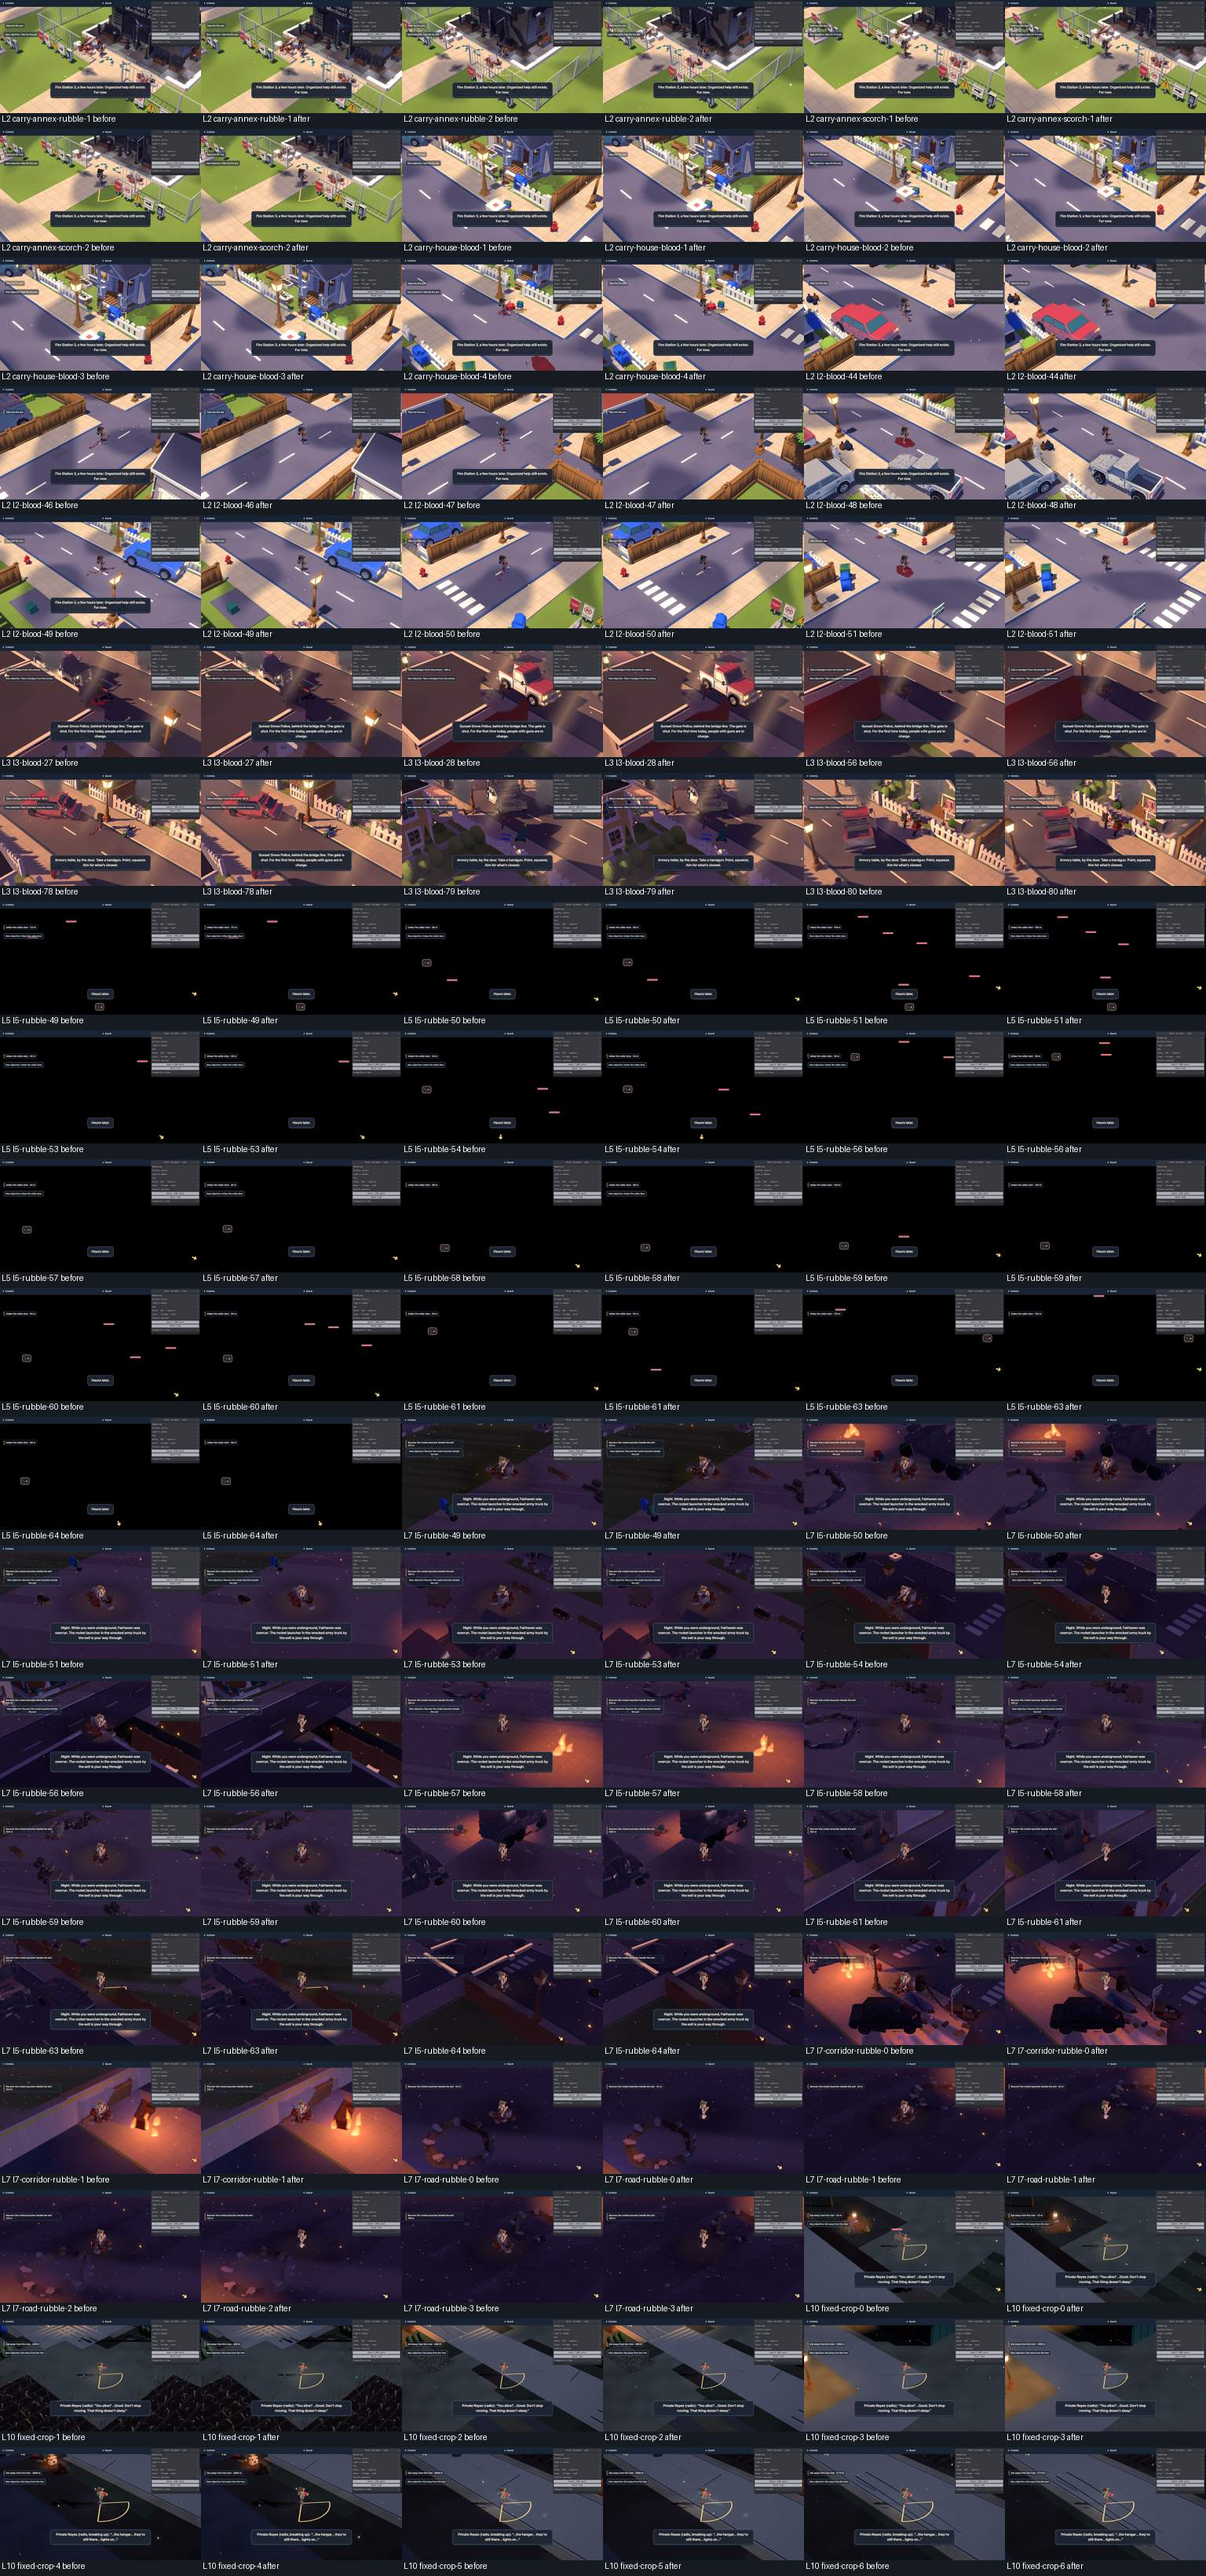
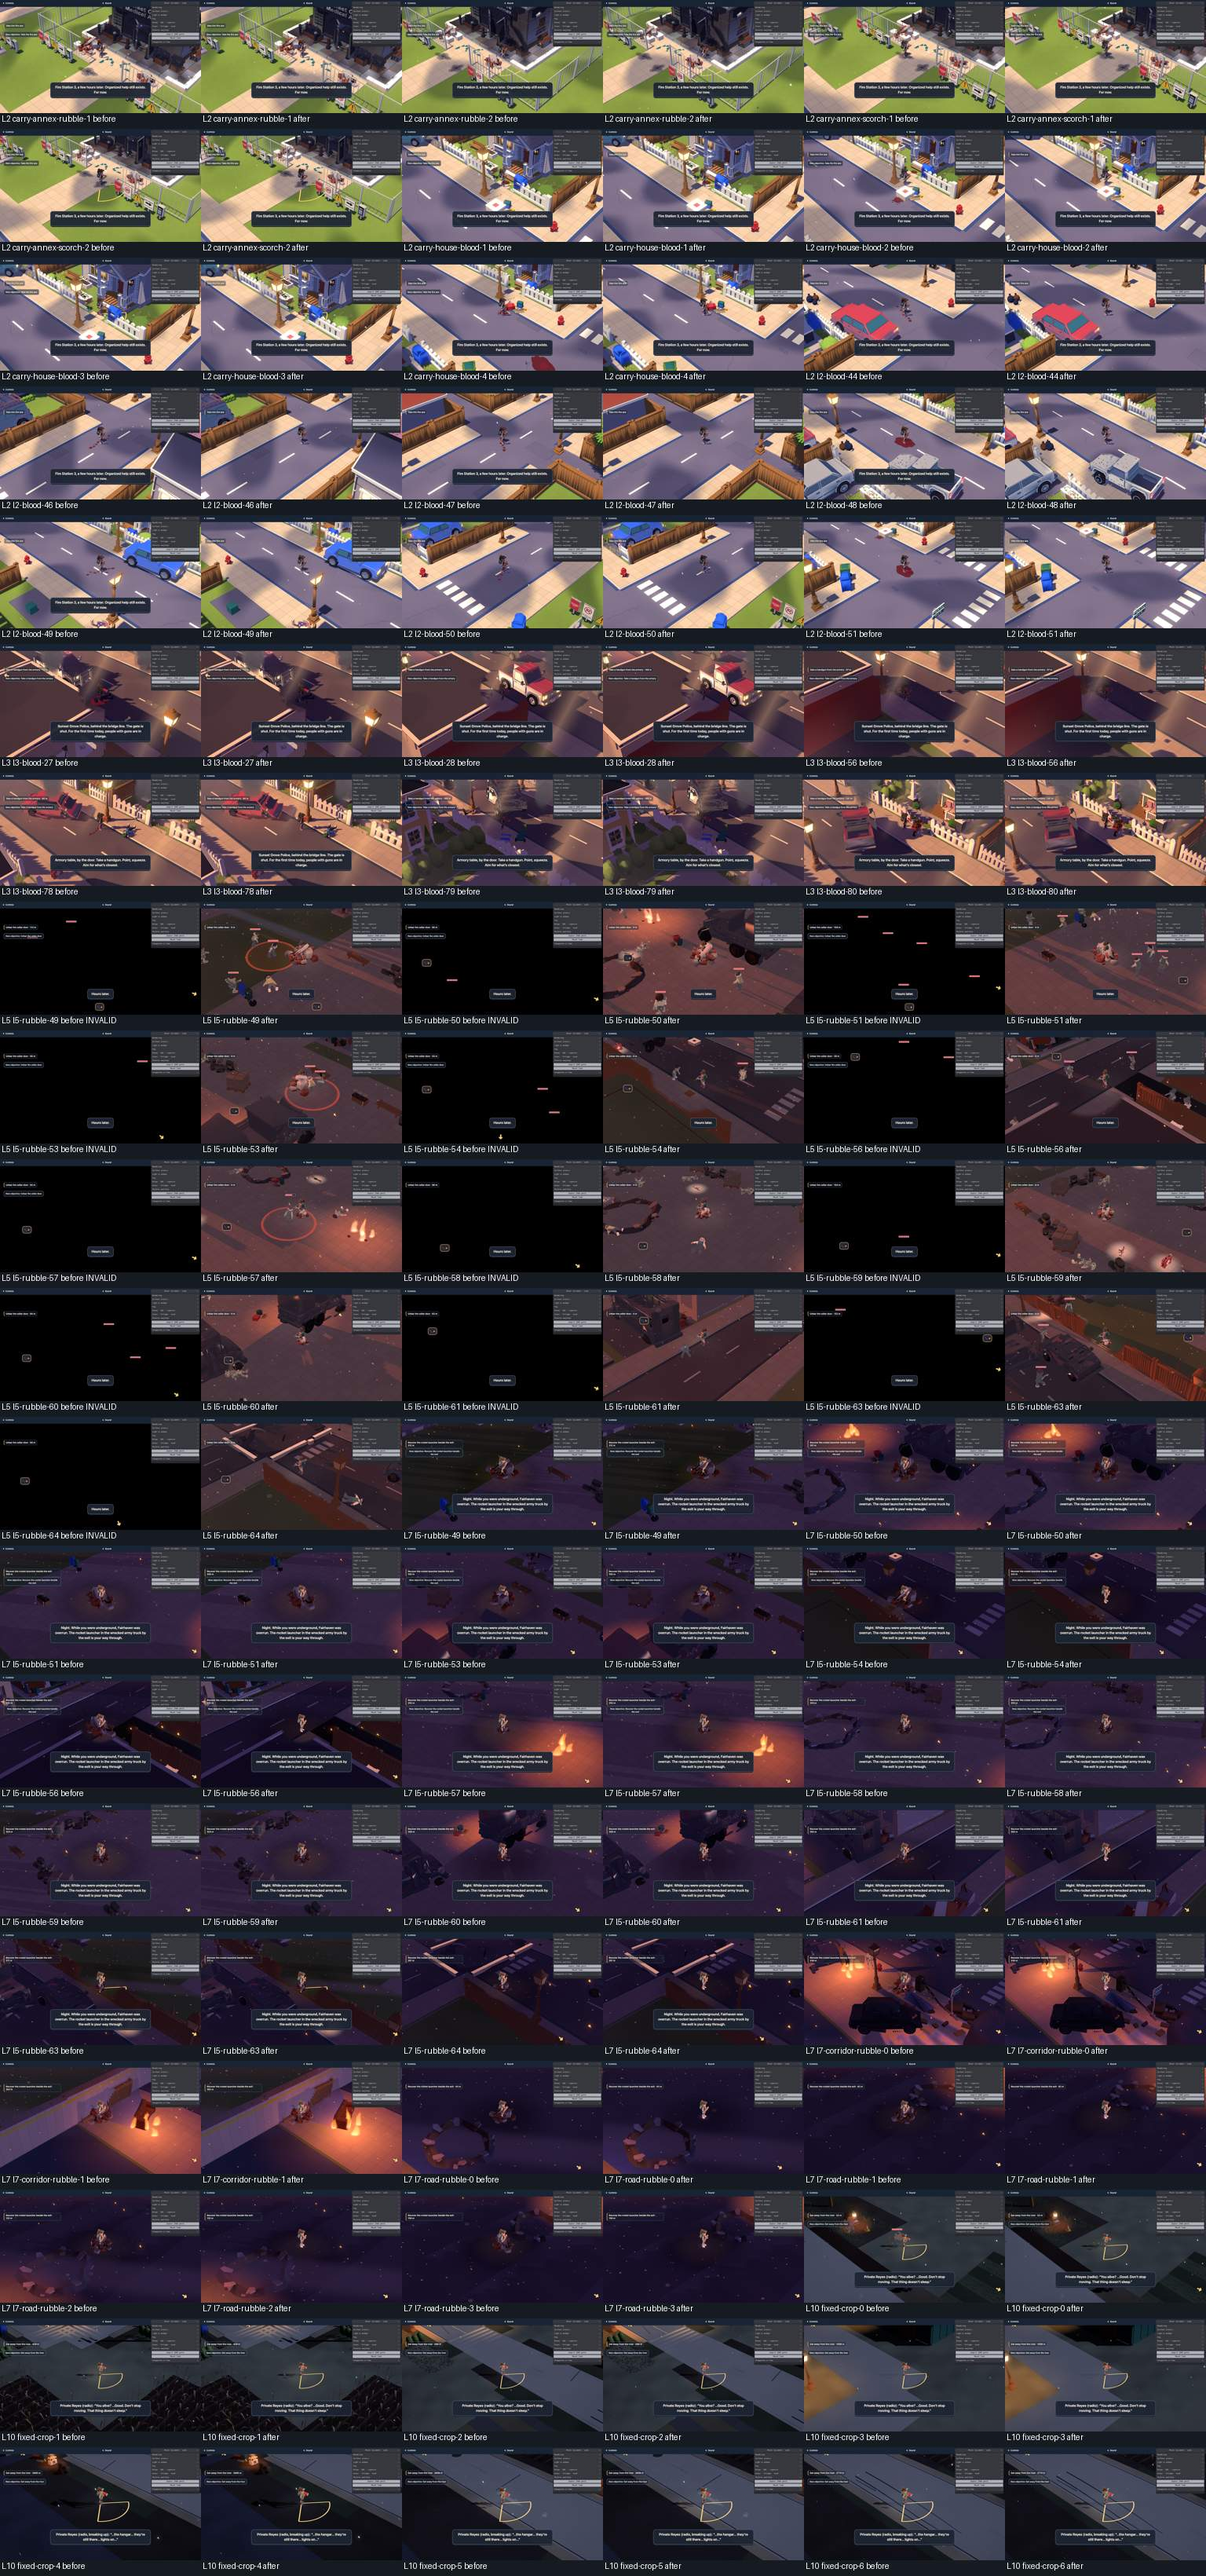
qa: exit L5 cellar mask before street surface captures

Changed region(s): [[0.1562, 0.3421, 0.3438, 0.5909], [0.8125, 0.3421, 1.0, 0.5598], [0.5, 0.3421, 0.6875, 0.5598]]

diff --git a/tools/qa/s87-captures.ts b/tools/qa/s87-captures.ts
@@ -13,8 +13,14 @@ const session = new SceneSession({ tier: 'high', backend: 'webgl2' });
 const receipts: unknown[] = [];
 try {
   await session.open(); let level = '';
-  for (const row of rows) {
-    if (row.level !== level) { await session.inspectLevel(row.level); level = row.level; }
+  for (const row of rows.filter(r => !process.env.S87_CAPTURE_LEVEL || r.level === process.env.S87_CAPTURE_LEVEL)) {
+    if (row.level !== level) {
+      await session.inspectLevel(row.level); level = row.level;
+      if (level === 'L5') await session.page.evaluate(async () => {
+        const a = window.__SS__!; a.missions.completeObjective('emerge'); a.resume();
+        await new Promise(r => setTimeout(r, 2500)); a.pause(); await a.screenshotReady();
+      });
+    }
     const state = await session.page.evaluate(async ({x,z}) => {
       const a = window.__SS__!;
       a.inspect.enable(false); a.teleport('player', {x,z}); a.camera.follow(); a.camera.zoom(1);

diff --git a/docs/reports/s87-surfaceqa/README.md b/docs/reports/s87-surfaceqa/README.md
@@ -39,3 +39,7 @@ The gate now samples all six L10 region handoffs at 0.05, 0.5 and 1 m on each si
 The opened contact sheet now pairs the previous HIGH zoom-1 captures with a fresh 60-image run after runtime road exclusion. Visible road blood patches in L2/L3 and road rubble in L7 disappear while surrounding structures remain. The L5 black-geometry captures remain unqualified. The sheet labels “before” and “after” refer to this runtime filter; both runs already include the earlier seven-crop fix, whose original before evidence is the supplied PO image only.
 
 Validation of the runtime filter: typecheck, lint and the focused nightly observer pass. The requested remote unit command passed on 94.130.181.173: 27 files, 106 passed / one skipped, 228.1 s within the 240 s budget.
+
+## L5 capture correction
+
+The black L5 captures retained the mission cellar post-process mask while the fixture teleported onto the street. The capture helper now completes the cellar-exit objective before taking street photos. All 13 L5 locations were retaken at HIGH zoom 1; [the index](l5-capture-index.json) records their coordinates. I opened the first corrected image: the rubble at (-36,20.6) is visible beside a tiled plaza edge and bench, clear of a marked road lane. The sheet now uses these valid L5 after images and keeps the invalid before images explicitly labelled. The remaining 26 paving findings are non-road plaza/entrance/pavement intersections: the independent full-lane observer finds zero road overlaps, and each remaining coordinate now has a rendered capture. Historical before proof for L5 fixes and six earlier L10 crop removals remains open.
